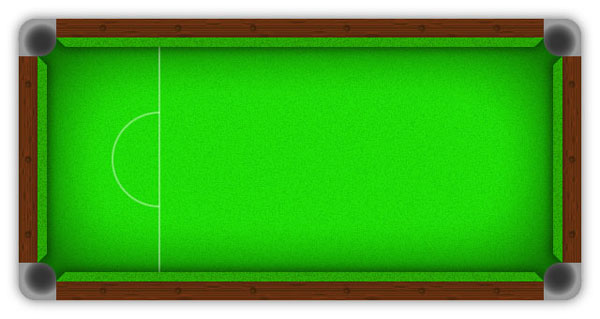
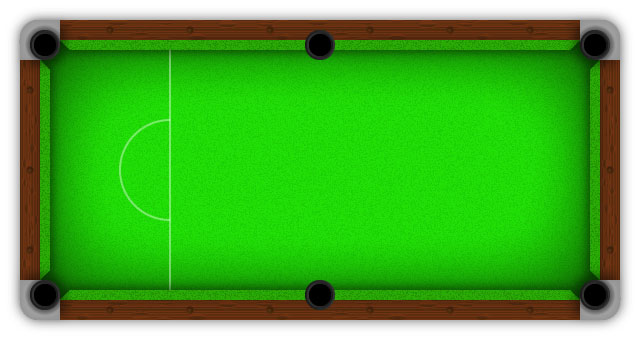
stable: Entity class working ; about to do a large refactor

diff --git a/OpenGLGraphics/main.cpp b/OpenGLGraphics/main.cpp
@@ -24,7 +24,7 @@ void	AddEntityObject(Entity *e){
 
 
 void main(void) {
-	Window w = Window(800, 600);
+	Window w = Window(1024, 768);
 	Renderer r(w);
 
 	//SHADERS
@@ -51,36 +51,36 @@ void main(void) {
 	Entity* tbl_top = new Entity("table_top", Vector3(0, SNOOKER_HEIGHT / 2 - CUSHION_WIDTH, 0), Vector3(1.0f, 1.0f, 1.0f), Vector3(1.0f, 1.0f, 1.0f), mesh_quad, shader_basic);
 	Entity* table = new Entity("table", Vector3(0.0f, 0.0f, 0.0f), Vector3(0.0f, 0.0f, 0.0f), Vector3(0.0f, 0.0f, 0.0f), mesh_quad, shader_simple, tex_table);
 	
-	table->getRenderObject()->SetModelMatrix(table->getRenderObject()->GetModelMatrix() * Matrix4::Scale(Vector3(SNOOKER_WIDTH, SNOOKER_HEIGHT, 1)));
-	tbl_left->getRenderObject()->SetModelMatrix(tbl_left->getRenderObject()->GetModelMatrix() * Matrix4::Scale(Vector3(3, SNOOKER_HEIGHT - POCKET_WIDTH, 1)));
-	tbl_right->getRenderObject()->SetModelMatrix(tbl_right->getRenderObject()->GetModelMatrix() * Matrix4::Scale(Vector3(3, SNOOKER_HEIGHT - POCKET_WIDTH, 1)));
-	tbl_bottom->getRenderObject()->SetModelMatrix(tbl_bottom->getRenderObject()->GetModelMatrix() * Matrix4::Scale(Vector3(SNOOKER_WIDTH - POCKET_WIDTH, 3, 1)));
-	tbl_left->getRenderObject()->SetModelMatrix(tbl_left->getRenderObject()->GetModelMatrix() * Matrix4::Scale(Vector3(SNOOKER_WIDTH - POCKET_WIDTH, 3, 1)));
+	table->scale(Vector3(SNOOKER_WIDTH, SNOOKER_HEIGHT, 1));
+	tbl_left->scale(Vector3(3, SNOOKER_HEIGHT - POCKET_WIDTH, 1));
+	tbl_right->scale(Vector3(3, SNOOKER_HEIGHT - POCKET_WIDTH, 1));
+	tbl_bottom->scale(Vector3(SNOOKER_WIDTH - POCKET_WIDTH, 3, 1));
+	tbl_top->scale(Vector3(SNOOKER_WIDTH - POCKET_WIDTH, 3, 1));
+	
+	AddEntityObject(new Entity("red1", Vector3(75.0f, 1.0f, 3.0f), Vector3(1.0f, 1.0f, 1.0f), Vector3(1.0f, 1.0f, 1.0f), mesh_circle, shader_basic));
+	AddEntityObject(new Entity("red2", Vector3(3.0f, 1.0f, 3.0f), Vector3(1.0f, 1.0f, 1.0f), Vector3(1.0f, 1.0f, 1.0f), mesh_circle, shader_basic));
+	AddEntityObject(new Entity("red2", Vector3(3.0f, 1.0f, 3.0f), Vector3(1.0f, 1.0f, 1.0f), Vector3(1.0f, 1.0f, 1.0f), mesh_circle, shader_basic));
+	AddEntityObject(new Entity("red3", Vector3(5.0f, 1.0f, 3.0f), Vector3(1.0f, 1.0f, 1.0f), Vector3(1.0f, 1.0f, 1.0f), mesh_circle, shader_basic));
+	AddEntityObject(new Entity("red4", Vector3(7.0f, 1.0f, 3.0f), Vector3(1.0f, 1.0f, 1.0f), Vector3(1.0f, 1.0f, 1.0f), mesh_circle, shader_basic));
+	AddEntityObject(new Entity("red5", Vector3(9.0f, 1.0f, 3.0f), Vector3(1.0f, 1.0f, 1.0f), Vector3(1.0f, 1.0f, 1.0f), mesh_circle, shader_basic));
+	AddEntityObject(new Entity("red6", Vector3(11.0f, 1.0f, 3.0f), Vector3(1.0f, 1.0f, 1.0f), Vector3(1.0f, 1.0f, 1.0f), mesh_circle, shader_basic));
+	AddEntityObject(new Entity("red7", Vector3(13.0f, 1.0f, 3.0f), Vector3(1.0f, 1.0f, 1.0f), Vector3(1.0f, 1.0f, 1.0f), mesh_circle, shader_basic));
+	AddEntityObject(new Entity("red8", Vector3(15.0f, 1.0f, 3.0f), Vector3(1.0f, 1.0f, 1.0f), Vector3(1.0f, 1.0f, 1.0f), mesh_circle, shader_basic));
+	AddEntityObject(new Entity("red9", Vector3(350.0f, 1.0f, 3.0f), Vector3(1.0f, 1.0f, 1.0f), Vector3(1.0f, 1.0f, 1.0f), mesh_circle, shader_basic));
+	AddEntityObject(new Entity("red10", Vector3(19.0f, 1.0f, 3.0f), Vector3(1.0f, 1.0f, 1.0f), Vector3(1.0f, 1.0f, 1.0f), mesh_circle, shader_basic));
+	AddEntityObject(new Entity("red11", Vector3(21.0f, 1.0f, 3.0f), Vector3(1.0f, 1.0f, 1.0f), Vector3(1.0f, 1.0f, 1.0f), mesh_circle, shader_basic));
+	AddEntityObject(new Entity("red12", Vector3(23.0f, 1.0f, 3.0f), Vector3(1.0f, 1.0f, 1.0f), Vector3(1.0f, 1.0f, 1.0f), mesh_circle, shader_basic));
+	AddEntityObject(new Entity("red13", Vector3(25.0f, 1.0f, 3.0f), Vector3(1.0f, 1.0f, 1.0f), Vector3(1.0f, 1.0f, 1.0f), mesh_circle, shader_basic));
+	AddEntityObject(new Entity("red14", Vector3(27.0f, 1.0f, 3.0f), Vector3(1.0f, 1.0f, 1.0f), Vector3(1.0f, 1.0f, 1.0f), mesh_circle, shader_basic));
+	AddEntityObject(new Entity("red15", Vector3(29.0f, 1.0f, 3.0f), Vector3(1.0f, 1.0f, 1.0f), Vector3(1.0f, 1.0f, 1.0f), mesh_circle, shader_basic));
 
-	AddEntityObject(new Entity("red1", Vector3(1.0f, 1.0f, 1.0f), Vector3(1.0f, 1.0f, 1.0f), Vector3(1.0f, 1.0f, 1.0f), mesh_circle, shader_basic));
-	AddEntityObject(new Entity("red2", Vector3(3.0f, 1.0f, 1.0f), Vector3(1.0f, 1.0f, 1.0f), Vector3(1.0f, 1.0f, 1.0f), mesh_circle, shader_basic));
-	AddEntityObject(new Entity("red2", Vector3(3.0f, 1.0f, 1.0f), Vector3(1.0f, 1.0f, 1.0f), Vector3(1.0f, 1.0f, 1.0f), mesh_circle, shader_basic));
-	AddEntityObject(new Entity("red3", Vector3(5.0f, 1.0f, 1.0f), Vector3(1.0f, 1.0f, 1.0f), Vector3(1.0f, 1.0f, 1.0f), mesh_circle, shader_basic));
-	AddEntityObject(new Entity("red4", Vector3(7.0f, 1.0f, 1.0f), Vector3(1.0f, 1.0f, 1.0f), Vector3(1.0f, 1.0f, 1.0f), mesh_circle, shader_basic));
-	AddEntityObject(new Entity("red5", Vector3(9.0f, 1.0f, 1.0f), Vector3(1.0f, 1.0f, 1.0f), Vector3(1.0f, 1.0f, 1.0f), mesh_circle, shader_basic));
-	AddEntityObject(new Entity("red6", Vector3(11.0f, 1.0f, 1.0f), Vector3(1.0f, 1.0f, 1.0f), Vector3(1.0f, 1.0f, 1.0f), mesh_circle, shader_basic));
-	AddEntityObject(new Entity("red7", Vector3(13.0f, 1.0f, 1.0f), Vector3(1.0f, 1.0f, 1.0f), Vector3(1.0f, 1.0f, 1.0f), mesh_circle, shader_basic));
-	AddEntityObject(new Entity("red8", Vector3(15.0f, 1.0f, 1.0f), Vector3(1.0f, 1.0f, 1.0f), Vector3(1.0f, 1.0f, 1.0f), mesh_circle, shader_basic));
-	AddEntityObject(new Entity("red9", Vector3(350.0f, 1.0f, 1.0f), Vector3(1.0f, 1.0f, 1.0f), Vector3(1.0f, 1.0f, 1.0f), mesh_circle, shader_basic));
-	AddEntityObject(new Entity("red10", Vector3(19.0f, 1.0f, 1.0f), Vector3(1.0f, 1.0f, 1.0f), Vector3(1.0f, 1.0f, 1.0f), mesh_circle, shader_basic));
-	AddEntityObject(new Entity("red11", Vector3(21.0f, 1.0f, 1.0f), Vector3(1.0f, 1.0f, 1.0f), Vector3(1.0f, 1.0f, 1.0f), mesh_circle, shader_basic));
-	AddEntityObject(new Entity("red12", Vector3(23.0f, 1.0f, 1.0f), Vector3(1.0f, 1.0f, 1.0f), Vector3(1.0f, 1.0f, 1.0f), mesh_circle, shader_basic));
-	AddEntityObject(new Entity("red13", Vector3(25.0f, 1.0f, 1.0f), Vector3(1.0f, 1.0f, 1.0f), Vector3(1.0f, 1.0f, 1.0f), mesh_circle, shader_basic));
-	AddEntityObject(new Entity("red14", Vector3(27.0f, 1.0f, 1.0f), Vector3(1.0f, 1.0f, 1.0f), Vector3(1.0f, 1.0f, 1.0f), mesh_circle, shader_basic));
-	AddEntityObject(new Entity("red15", Vector3(29.0f, 1.0f, 1.0f), Vector3(1.0f, 1.0f, 1.0f), Vector3(1.0f, 1.0f, 1.0f), mesh_circle, shader_basic));
-
-	AddEntityObject(new Entity("green", Vector3(39.0f, 1.0f, 1.0f), Vector3(1.0f, 1.0f, 1.0f), Vector3(1.0f, 1.0f, 1.0f), mesh_circle, shader_basic));
-	AddEntityObject(new Entity("yellow", Vector3(31.0f, 1.0f, 1.0f), Vector3(1.0f, 1.0f, 1.0f), Vector3(1.0f, 1.0f, 1.0f), mesh_circle, shader_basic));
-	AddEntityObject(new Entity("blue", Vector3(33.0f, 1.0f, 1.0f), Vector3(1.0f, 1.0f, 1.0f), Vector3(1.0f, 1.0f, 1.0f), mesh_circle, shader_basic));
-	AddEntityObject(new Entity("pink", Vector3(35.0f, 1.0f, 1.0f), Vector3(1.0f, 1.0f, 1.0f), Vector3(1.0f, 1.0f, 1.0f), mesh_circle, shader_basic));
-	AddEntityObject(new Entity("black", Vector3(37.0f, 1.0f, 1.0f), Vector3(1.0f, 1.0f, 1.0f), Vector3(1.0f, 1.0f, 1.0f), mesh_circle, shader_basic));
-	AddEntityObject(new Entity("brown", Vector3(39.0f, 1.0f, 1.0f), Vector3(1.0f, 1.0f, 1.0f), Vector3(1.0f, 1.0f, 1.0f), mesh_circle, shader_basic));
-	AddEntityObject(new Entity("white", Vector3(39.0f, 1.0f, 1.0f), Vector3(1.0f, 1.0f, 1.0f), Vector3(1.0f, 1.0f, 1.0f), mesh_circle, shader_basic));
+	AddEntityObject(new Entity("green", Vector3(39.0f, 1.0f, 3.0f), Vector3(1.0f, 1.0f, 1.0f), Vector3(1.0f, 1.0f, 1.0f), mesh_circle, shader_basic));
+	AddEntityObject(new Entity("yellow", Vector3(31.0f, 1.0f, 3.0f), Vector3(1.0f, 1.0f, 1.0f), Vector3(1.0f, 1.0f, 1.0f), mesh_circle, shader_basic));
+	AddEntityObject(new Entity("blue", Vector3(33.0f, 1.0f, 3.0f), Vector3(1.0f, 1.0f, 1.0f), Vector3(1.0f, 1.0f, 1.0f), mesh_circle, shader_basic));
+	AddEntityObject(new Entity("pink", Vector3(35.0f, 1.0f, 3.0f), Vector3(1.0f, 1.0f, 1.0f), Vector3(1.0f, 1.0f, 1.0f), mesh_circle, shader_basic));
+	AddEntityObject(new Entity("black", Vector3(37.0f, 1.0f, 3.0f), Vector3(1.0f, 1.0f, 1.0f), Vector3(1.0f, 1.0f, 1.0f), mesh_circle, shader_basic));
+	AddEntityObject(new Entity("brown", Vector3(39.0f, 1.0f, 3.0f), Vector3(1.0f, 1.0f, 1.0f), Vector3(1.0f, 1.0f, 1.0f), mesh_circle, shader_basic));
+	AddEntityObject(new Entity("white", Vector3(39.0f, 1.0f, 3.0f), Vector3(1.0f, 1.0f, 1.0f), Vector3(1.0f, 1.0f, 1.0f), mesh_circle, shader_basic));
 
 	
 	AddEntityObject(tbl_left);
@@ -89,9 +89,9 @@ void main(void) {
 	AddEntityObject(tbl_top);
 
 	AddEntityObject(table);
+
 	// add render objects
-	r.AddRenderObject(*table->getRenderObject());
-	for (int i = 0; i < 26; i++)
+	for (int i = 0; i < entityObjects.size(); i++)
 	{
 		r.AddRenderObject(*entityObjects[i]->getRenderObject());
 	}
@@ -101,6 +101,7 @@ void main(void) {
 		float msec = w.GetTimer()->GetTimedMS();
 
 		r.UpdateScene(msec);
+
 		r.ClearBuffers();
 		r.RenderScene();
 		r.SwapBuffers();

diff --git a/OpenGLGraphics/Entity.h b/OpenGLGraphics/Entity.h
@@ -12,24 +12,22 @@ class Entity
 {
 public:
 	Entity();
-	Entity(string name, Vector3 pos, Vector3 dir, Vector3 vel, Mesh* mesh, Shader* shader, GLuint texture);
-	Entity(string name, Vector3 pos, Vector3 dir, Vector3 vel, Mesh* mesh, Shader* shader);
-	Entity(string name, Vector3 pos, Vector3 dir, Vector3 vel);
+	Entity(string name, Vector3 pos, Vector3 acc, Vector3 vel, Mesh* mesh, Shader* shader, GLuint texture);
+	Entity(string name, Vector3 pos, Vector3 acc, Vector3 vel, Mesh* mesh, Shader* shader);
+	Entity(string name, Vector3 pos, Vector3 acc, Vector3 vel);
 
 	~Entity();
 
 	void setPos(Vector3 v);
-	void setDir(Vector3 v);
+	void setAcc(Vector3 v);
 	void setVel(Vector3 v);
 	RenderObject* getRenderObject() const;
-	/*
-	inline void translate(Vector3 pos){ this->renderObject->SetModelMatrix(Matrix4::Translation(this->renderObject->GetModelMatrix() * pos)); };
-	inline void scale(Vector3 scale){ this->renderObject->SetModelMatrix(Matrix4::Scale(this->renderObject->GetModelMatrix() * scale)); };
-	inline void rotate(float degree, Vector3 rotation){ this->renderObject->SetModelMatrix(Matrix4::Rotation(degree, this->renderObject->GetModelMatrix() * rotation)); };
-	*/
+	
+	inline void translate(Vector3 pos){ this->renderObject->SetModelMatrix(this->renderObject->GetModelMatrix() * Matrix4::Translation(pos)); };
+	inline void scale(Vector3 scale){ this->renderObject->SetModelMatrix(this->renderObject->GetModelMatrix() * Matrix4::Scale( scale)); };
+	inline void rotate(float degree, Vector3 rotation){ this->renderObject->SetModelMatrix(this->renderObject->GetModelMatrix() * Matrix4::Rotation(degree, rotation)); };
+	
 private:
-	Vector3 pos;
-	Vector3 dir;
 	PhysicsObject* physicsObject;
 	RenderObject* renderObject;
 };

diff --git a/OpenGLGraphics/PhysicsObject.cpp b/OpenGLGraphics/PhysicsObject.cpp
@@ -4,13 +4,13 @@
 PhysicsObject::PhysicsObject(Vector3 pos, Vector3 dir, Vector3 vel){
 
 	this->position = pos;
-	this->direction = dir;
+	this->acceleration = dir;
 	this->velocity = vel;
 	this->renderObject = nullptr;
 }
 PhysicsObject::PhysicsObject(Vector3 pos, Vector3 dir, Vector3 vel, RenderObject *r){
 	this->position = pos;
-	this->direction = dir;
+	this->acceleration = dir;
 	this->velocity = vel;
 	this->renderObject = r;
 	updateRenderObject();
@@ -19,14 +19,14 @@ PhysicsObject::~PhysicsObject(){
 	
 }
 
-
-
 Vector3 PhysicsObject::getPos() const{ return position;}
-Vector3 PhysicsObject::getDir() const{ return direction;}
+Vector3 PhysicsObject::getAcc() const{ return acceleration;}
 Vector3 PhysicsObject::getVel() const{ return velocity;}
-void PhysicsObject::setDir(Vector3 dir){ this->direction = dir; };
-void PhysicsObject::setVel(Vector3 vel){ this->direction = vel; };
+
+void PhysicsObject::setAcc(Vector3 dir){ this->acceleration = dir; };
+void PhysicsObject::setVel(Vector3 vel){ this->acceleration = vel; };
 void PhysicsObject::setPos(Vector3 pos){
 	this->position = pos;
 	if (renderObject) { updateRenderObject(); };
 };
+

diff --git a/OpenGLGraphics/PhysicsObject.h b/OpenGLGraphics/PhysicsObject.h
@@ -1,28 +1,34 @@
 #pragma once
 #include <vector>
 #include "RenderObject.h"
+#include "Physics.h"
 
 class PhysicsObject
 {
 private:
 	RenderObject* renderObject;
 	Vector3 position;
-	Vector3 direction;
+	Vector3 acceleration;
 	Vector3 velocity;
 	inline void updateRenderObject(){ 
 		this->renderObject->SetModelMatrix(Matrix4::Translation(this->renderObject->GetModelMatrix() * position));
 	};
 
 public:
-	PhysicsObject(Vector3 pos, Vector3 dir, Vector3 vel);
-	PhysicsObject(Vector3 pos, Vector3 dir, Vector3 vel, RenderObject *r);
+	PhysicsObject(Vector3 pos, Vector3 acc, Vector3 vel);
+	PhysicsObject(Vector3 pos, Vector3 acc, Vector3 vel, RenderObject *r);
 	~PhysicsObject();
 
 	Vector3 getPos() const;
-	Vector3 getDir() const;
+	Vector3 getAcc() const;
 	Vector3 getVel() const;
 	void setPos(Vector3 v);
-	void setDir(Vector3 v);
+	void setAcc(Vector3 v);
 	void setVel(Vector3 v);
+
+	inline void update(float dt) {
+		position = Physics::calcSUVAT(velocity, acceleration, dt);
+	}
+
 };
 

diff --git a/OpenGLGraphics/Entity.cpp b/OpenGLGraphics/Entity.cpp
@@ -9,10 +9,8 @@ Entity::Entity(string name, Vector3 pos, Vector3 dir, Vector3 vel, Mesh* mesh, S
 }
 
 Entity::Entity(string name, Vector3 pos, Vector3 dir, Vector3 vel, Mesh* mesh, Shader* shader){
-	
 	this->renderObject = new RenderObject(mesh, shader);;
 	this->physicsObject = new PhysicsObject(pos, dir, vel, renderObject);
-
 }
 Entity::Entity(string name, Vector3 pos, Vector3 dir, Vector3 vel){
 
@@ -22,7 +20,7 @@ Entity::Entity(string name, Vector3 pos, Vector3 dir, Vector3 vel){
 }
 
 void Entity::setPos(Vector3 pos){ this->physicsObject->setPos(pos); }
-void Entity::setDir(Vector3 dir){ this->physicsObject->setDir(dir); }
+void Entity::setAcc(Vector3 dir){ this->physicsObject->setAcc(dir); }
 void Entity::setVel(Vector3 vel){ this->physicsObject->setVel(vel); }
 
 //destuctor

diff --git a/OpenGLGraphics/Renderer.cpp b/OpenGLGraphics/Renderer.cpp
@@ -28,7 +28,7 @@ Renderer::Renderer(Window &parent) : OGLRenderer(parent)	{
 	srand(std::time(NULL));
 
 	modelMatrix = Matrix4::Rotation(90, Vector3(1, 0, 0)) * Matrix4::Scale(Vector3(300, 300, 300));
-	projMatrix = Matrix4::Orthographic(0, 50, SNOOKER_WIDTH / 2 + TABLE_BORDER, -SNOOKER_WIDTH / 2 - TABLE_BORDER, SNOOKER_HEIGHT / 2 + TABLE_BORDER, -SNOOKER_HEIGHT / 2 - TABLE_BORDER);
+	projMatrix = Matrix4::Orthographic(-20, 50, SNOOKER_WIDTH / 2 + TABLE_BORDER, -SNOOKER_WIDTH / 2 - TABLE_BORDER, SNOOKER_HEIGHT / 2 + TABLE_BORDER, -SNOOKER_HEIGHT / 2 - TABLE_BORDER);
 
 	// SCENE MATRIXES
 	//SetProjectionMatrix(Matrix4::Orthographic(1.0f, 500.0f, 1.33f, 45.0f));

diff --git a/OpenGLGraphics/Physics.h b/OpenGLGraphics/Physics.h
@@ -7,7 +7,7 @@ class Physics
 public:
 	Physics();
 	~Physics();
-	inline Vector3 calcSUVAT(Vector3 u, Vector3 a, float t){
+	inline static Vector3 calcSUVAT(Vector3 u, Vector3 a, float t){
 		return u + a * t;
 	}
 

diff --git a/OpenGLGraphics/Mesh.cpp b/OpenGLGraphics/Mesh.cpp
@@ -194,7 +194,7 @@ Mesh* Mesh::GenerateTriFan(){
 	float x = 0;
 	float y = 0;
 	float z = 0;
-	float radius = 5;
+	float radius = 2.6;
 	
 	int LOD = 100;
 	float twicePi = 2.0f *PI;
